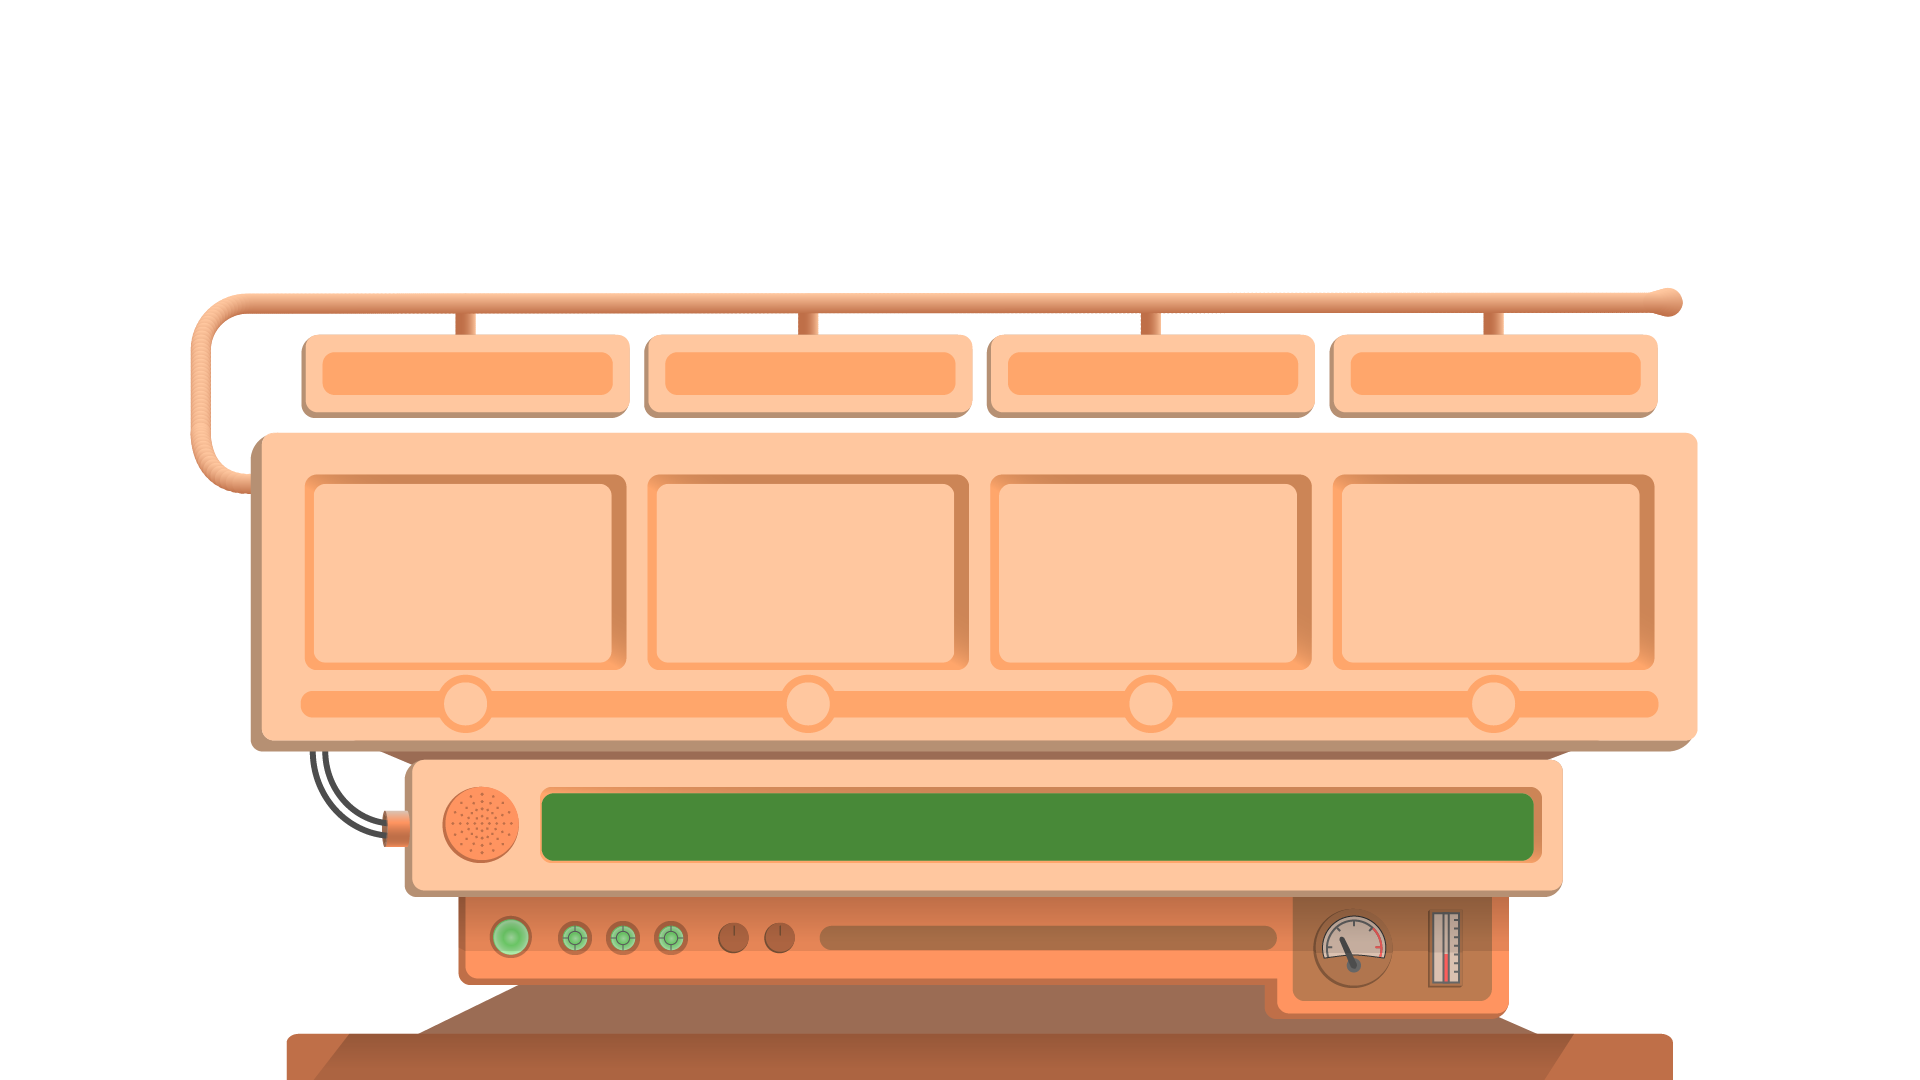
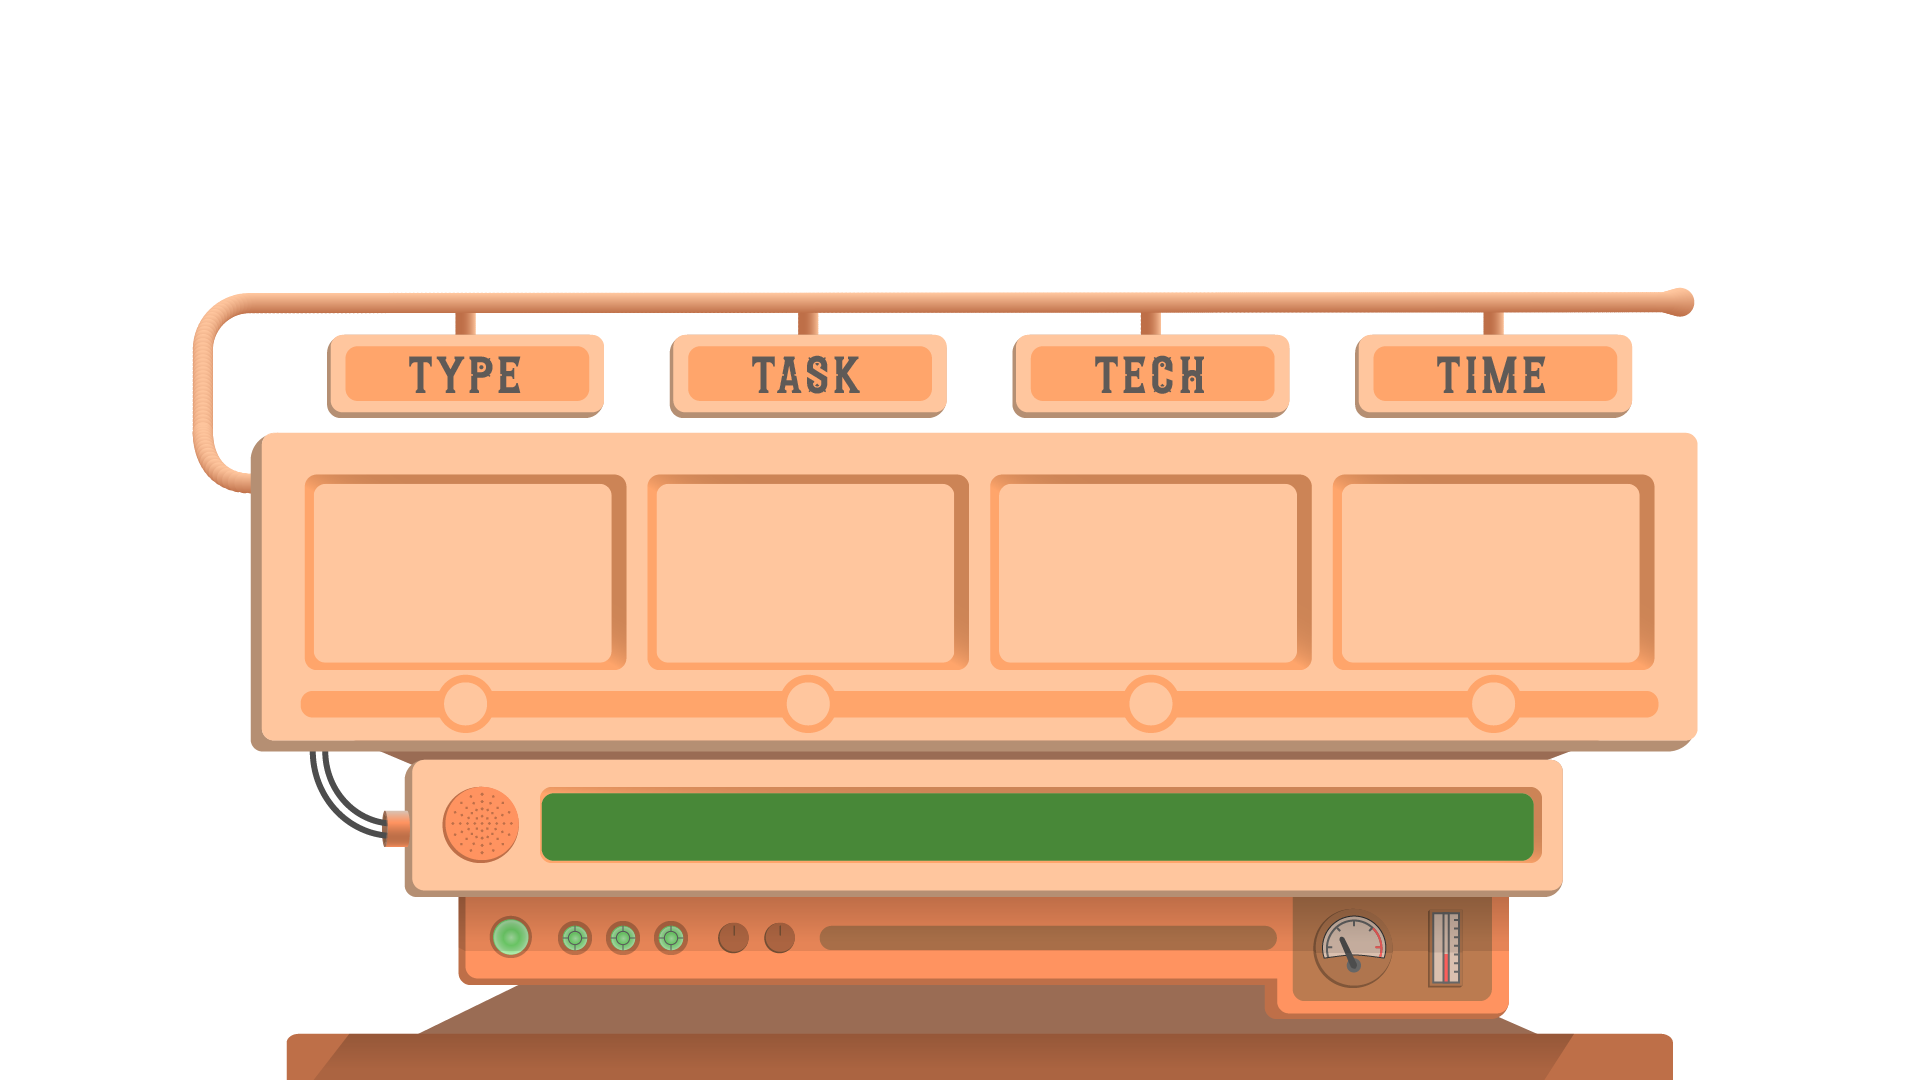
Redo font for signs and remove signs component (sign text is now part of machine graphic)

Changed region(s): [[0.1562, 0.3056, 0.875, 0.3972], [0.875, 0.275, 0.9062, 0.3056]]

diff --git a/src/layout/Machine.css b/src/layout/Machine.css
@@ -10,66 +10,3 @@
   top: 0.7vh;
   left: calc(50vw - calc(100vh * 1.7778) / 2);
 }
-
-.signs-area {
-  position: absolute;
-  top: 32.6%;
-  left: 17%;
-  width: 68.2%;
-  height: 4%;
-  display: flex;
-  justify-content: space-between;
-}
-
-.lock-switches-area {
-  position: absolute;
-  top: 40.4%;
-  left: 21.9%;
-  width: 58.3%;
-  height: 3.4%;
-  /* border: 1px solid red; */
-  display: flex;
-  justify-content: space-between;
-}
-
-.reels-area {
-  position: absolute;
-  top: 44.6%;
-  left: 16.3%;
-  width: 69.3%;
-  height: 17%;
-  /* border: 1px solid red; */
-  display: flex;
-  justify-content: space-between;
-  align-items: center;
-}
-
-.lever-area {
-  position: absolute;
-  top: 42%;
-  left: 88.4%;
-  width: 10.3%;
-  height: 26%;
-  /* border: 1px solid red; */
-}
-
-.buttons-area {
-  /* border: 1px solid red; */
-  position: absolute;
-  top: 63%;
-  left: 23.12%;
-  width: 55.8%;
-  height: 4.4%;
-  display: flex;
-  justify-content: space-between;
-  align-items: center;
-}
-
-.display-area {
-  position: absolute;
-  top: 73.3%;
-  left: 28.2%;
-  width: 51.8%;
-  height: 6.45%;
-  /* border: 1px solid red; */
-}

diff --git a/src/components/ReelUnit.tsx b/src/components/ReelUnit.tsx
@@ -1,7 +1,6 @@
 import { useAppDispatch, useAppSelector } from "../store/hooks";
 import LockSwitch from "./LockSwitch";
 import "./ReelUnit.css";
-import Sign from "./Sign";
 import Reel from "./Reel";
 import { ReelName } from "../types";
 import { allChoices } from "../data/allChoices";
@@ -51,7 +50,6 @@ const ReelUnit: React.FC<Props> = ({ name }) => {
 
   return (
     <div className="reel-unit">
-      <Sign name={name} />
       <LockSwitch isLocked={isUserLocked} toggleLock={toggleIsUserLocked} />
       <Reel
         choices={choices}

diff --git a/src/App.css b/src/App.css
@@ -20,9 +20,9 @@
   --width: 123vh;
   --center-left-shift: calc(50vw - calc(var(--width) / 2));
   width: var(--width);
-  height: 34.5%;
+  height: 27%;
   left: calc(var(--center-left-shift) + 1.7vh);
-  top: 33.4%;
+  top: 41.08%;
   display: flex;
   align-items: center;
   justify-content: space-between;

diff --git a/src/components/ReelUnit.css b/src/components/ReelUnit.css
@@ -5,7 +5,7 @@
   z-index: 2;
   height: 100%;
   display: grid;
-  grid-template-rows: 22.2% 12.7% 53.6% auto;
+  grid-template-rows: 15.9% 68.6% auto;
   justify-items: center;
   align-items: start;
 }
